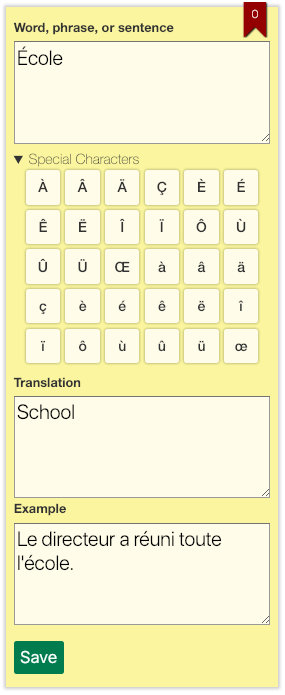
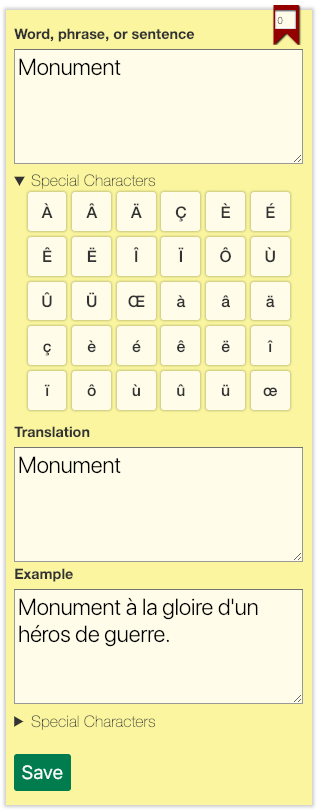
feat: Add the ability to add special characters to the example

Changed region(s): [[0.0, 0.0, 1.0, 0.9971]]

diff --git a/index.html b/index.html
@@ -46,8 +46,8 @@
 
                 <details mv-if="mode = edit">
                     <summary>Special Characters</summary>
-                    <span property="character" mv-multiple mv-value="split(uppercase(specialCharacters) & ' ' & specialCharacters)"
-                          mv-action="set(source, source & character)" mv-mode="read" title="[character]" tabindex="0"></span>
+                    <span property="character4source" mv-multiple mv-value="split(uppercase(specialCharacters) & ' ' & specialCharacters)"
+                          mv-action="set(source, source & character4source)" mv-mode="read" title="[character4source]" tabindex="0"></span>
                 </details>
 
                 <p mv-if="mode = read" mv-action="set(mode, edit)">
@@ -73,6 +73,12 @@
                 <p mv-if="mode = read and translationVisible and len(example) > 0" mv-action="set(mode, edit)">
                     [example]
                 </p>
+
+                <details mv-if="mode = edit">
+                    <summary>Special Characters</summary>
+                    <span property="character4example" mv-multiple mv-value="split(uppercase(specialCharacters) & ' ' & specialCharacters)"
+                          mv-action="set(example, example & character4example)" mv-mode="read" title="[character4example]" tabindex="0"></span>
+                </details>
 
                 <button mv-if="mode = edit"
                         mv-action="set(mode, read), set(translationVisible, false)"

diff --git a/README.md b/README.md
@@ -12,10 +12,10 @@ Working with the app you are able to:
 
 - create new flashcards
 - edit flashcard source phrase, translation and example
-- add special characters to the source phrase when needed
+- add special characters to the source phrase and the example when needed
 - edit rank when needed
 
-![Edit flashcard|285x695, 50%](./images/2.png)
+![Edit flashcard|317x810, 75%](./images/2.png)
 
 - delete flashcards
 - rearrange flashcards
